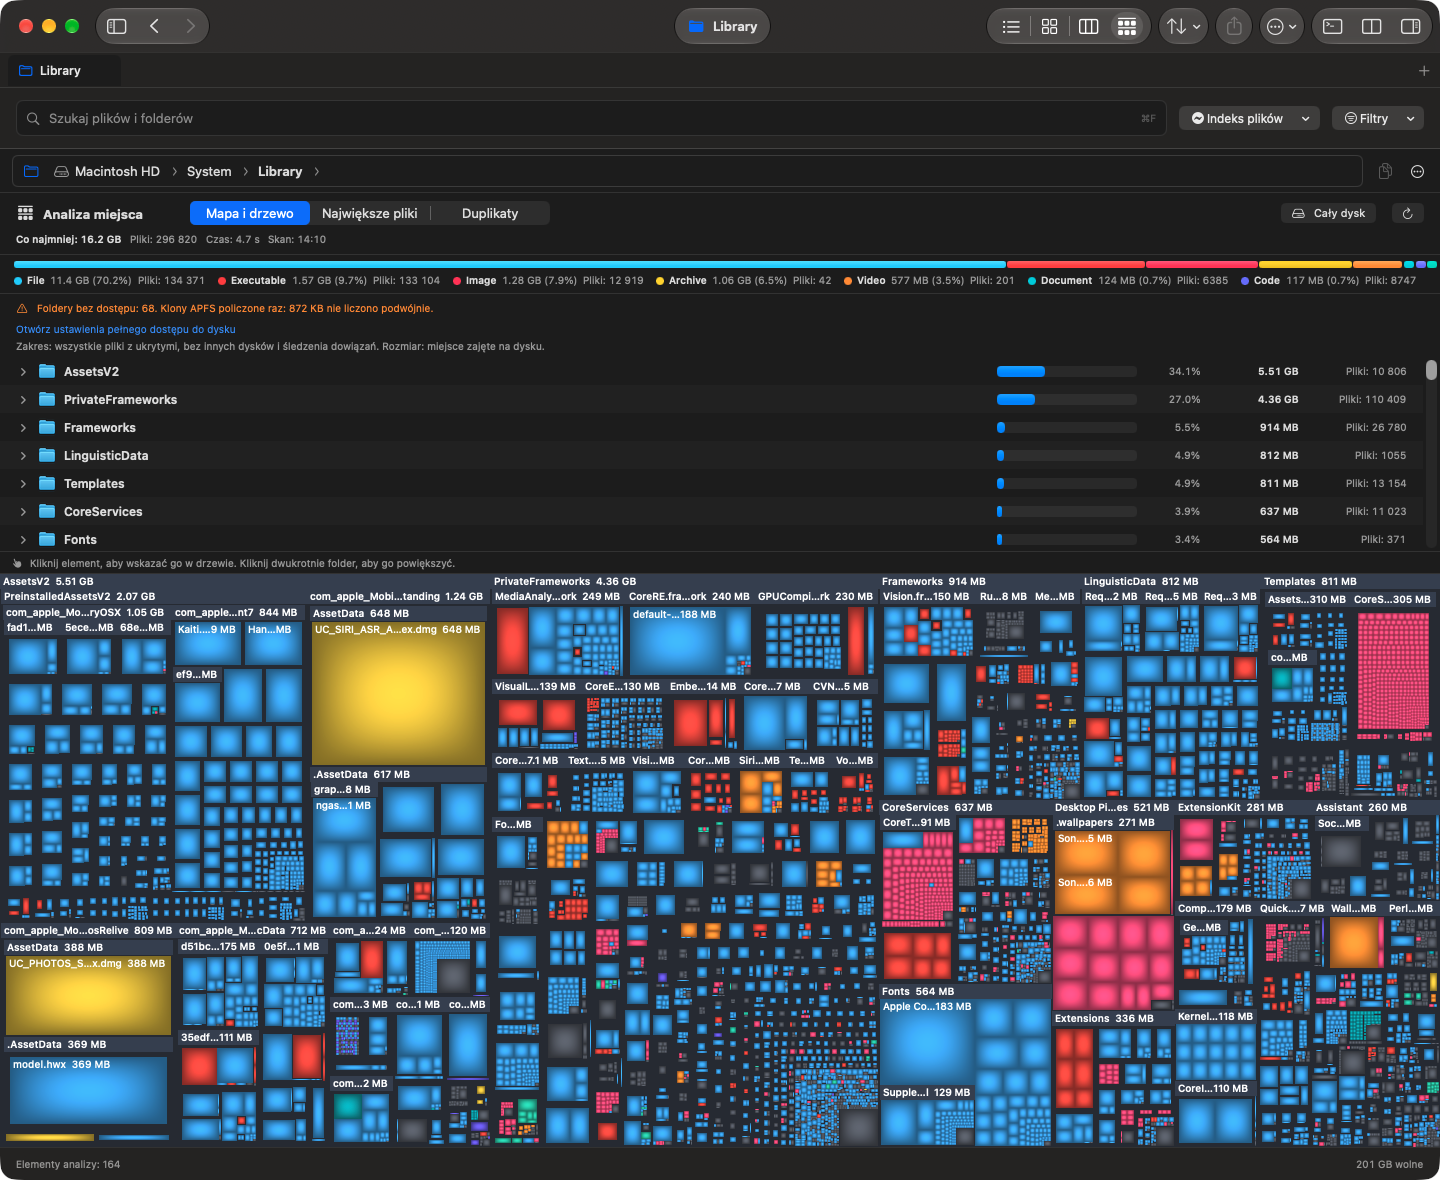
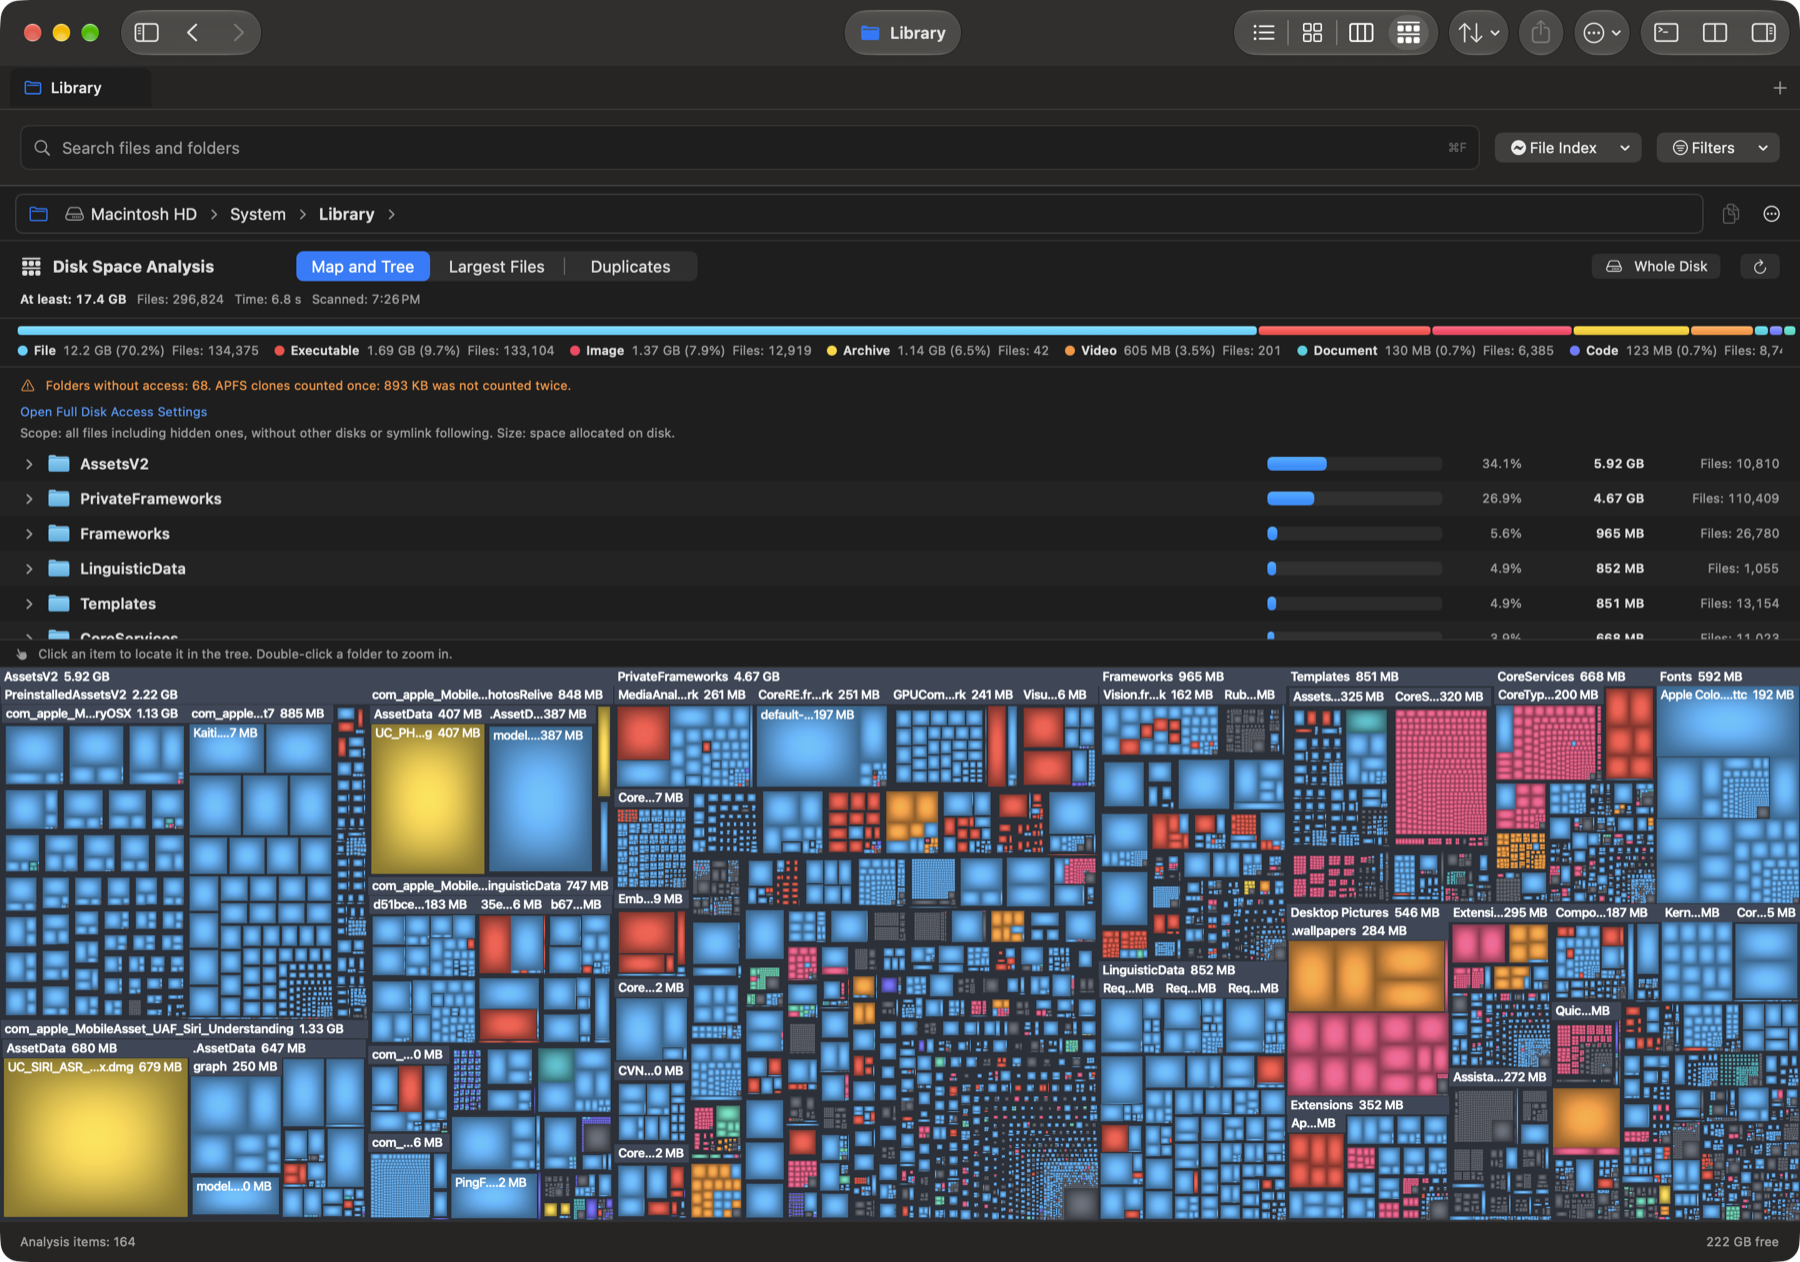
Refresh the README: demo video, English screenshots, cloud support
- Demo video at the top
- New English screenshots taken with decimal sizes; the main one shows
  the sidebar with the Cloud section
- Subtitle mentions iCloud Drive, Google Drive and OneDrive
- First launch: 0.1.0 was signed ad hoc, so updating from it needs Full
  Disk Access once more
- Roadmap: more cloud controls

diff --git a/README.md b/README.md
@@ -7,7 +7,8 @@
 <p align="center">
   <b>A native macOS file manager that also tells you where your disk went.</b><br>
   Dual panes, an Explorer-style address bar, fsearch-style indexed search,<br>
-  a WizTree-style map of the whole disk, and a <code>burrow</code> CLI for scripts and AI agents.
+  a WizTree-style map of the whole disk, iCloud Drive, Google Drive and OneDrive in the sidebar,<br>
+  and a <code>burrow</code> CLI for scripts and AI agents.
 </p>
 
 <p align="center">
@@ -30,7 +31,9 @@
   <a href="docs/GUIDE.md">Guide</a>
 </p>
 
-![Burrow with two panes: System Applications as a list and Utilities as icons](docs/images/dual-pane.png)
+https://github.com/user-attachments/assets/154919ab-4196-4dbc-abe3-9a577abc60cc
+
+![Burrow with two panes: System Applications as a list and Utilities as icons, with Favorites, Locations and Cloud in the sidebar](docs/images/dual-pane.png)
 
 ## Highlights
 
@@ -117,7 +120,7 @@ brew tap maciejwlodarski/burrow https://github.com/MaciejWlodarski/burrow
 brew install --cask burrow
 ```
 
-**First launch.** Burrow is open source and not notarized by Apple, so macOS blocks it the first time. Open **System Settings → Privacy & Security** and choose **Open Anyway**, or run `xattr -dr com.apple.quarantine /Applications/Burrow.app`. Grant **Full Disk Access** in the same place so the disk map can read protected folders. Releases are signed with the same certificate, so updates keep that permission.
+**First launch.** Burrow is open source and not notarized by Apple, so macOS blocks it the first time. Open **System Settings → Privacy & Security** and choose **Open Anyway**, or run `xattr -dr com.apple.quarantine /Applications/Burrow.app`. Grant **Full Disk Access** in the same place so the disk map can read protected folders. Releases from 0.1.1 on are signed with the same certificate, so updates keep that permission. Version 0.1.0 was signed ad hoc: after updating from it, grant Full Disk Access once more.
 
 The interface follows the macOS language (English or Polish). To choose one, open **Settings → Language**.
 
@@ -173,6 +176,7 @@ To try a build without installing it, run `zsh ./build_app.sh` and `open Burrow.
 - [ ] **More languages.** The interface is in English and Polish. A new language is one `Localizable.strings` file; see [Development](#development).
 - [ ] **Optional fsearch backend.** When the [fsearch](https://github.com/noahdunnagan/fsearch) daemon is running, query its whole-disk index and content grep over its local socket instead of indexing chosen folders only.
 - [ ] **Live disk map.** Keep a finished scan current with FSEvents instead of rescanning.
+- [ ] **More cloud controls.** Keep chosen folders downloaded, show download progress as a percentage, and share links through the provider.
 - [ ] **Faster CLI for agents.** A cached scan the CLI can reuse between commands, and an MCP server exposing `scan`, `top`, `junk` and `trash`.
 
 **Later**
